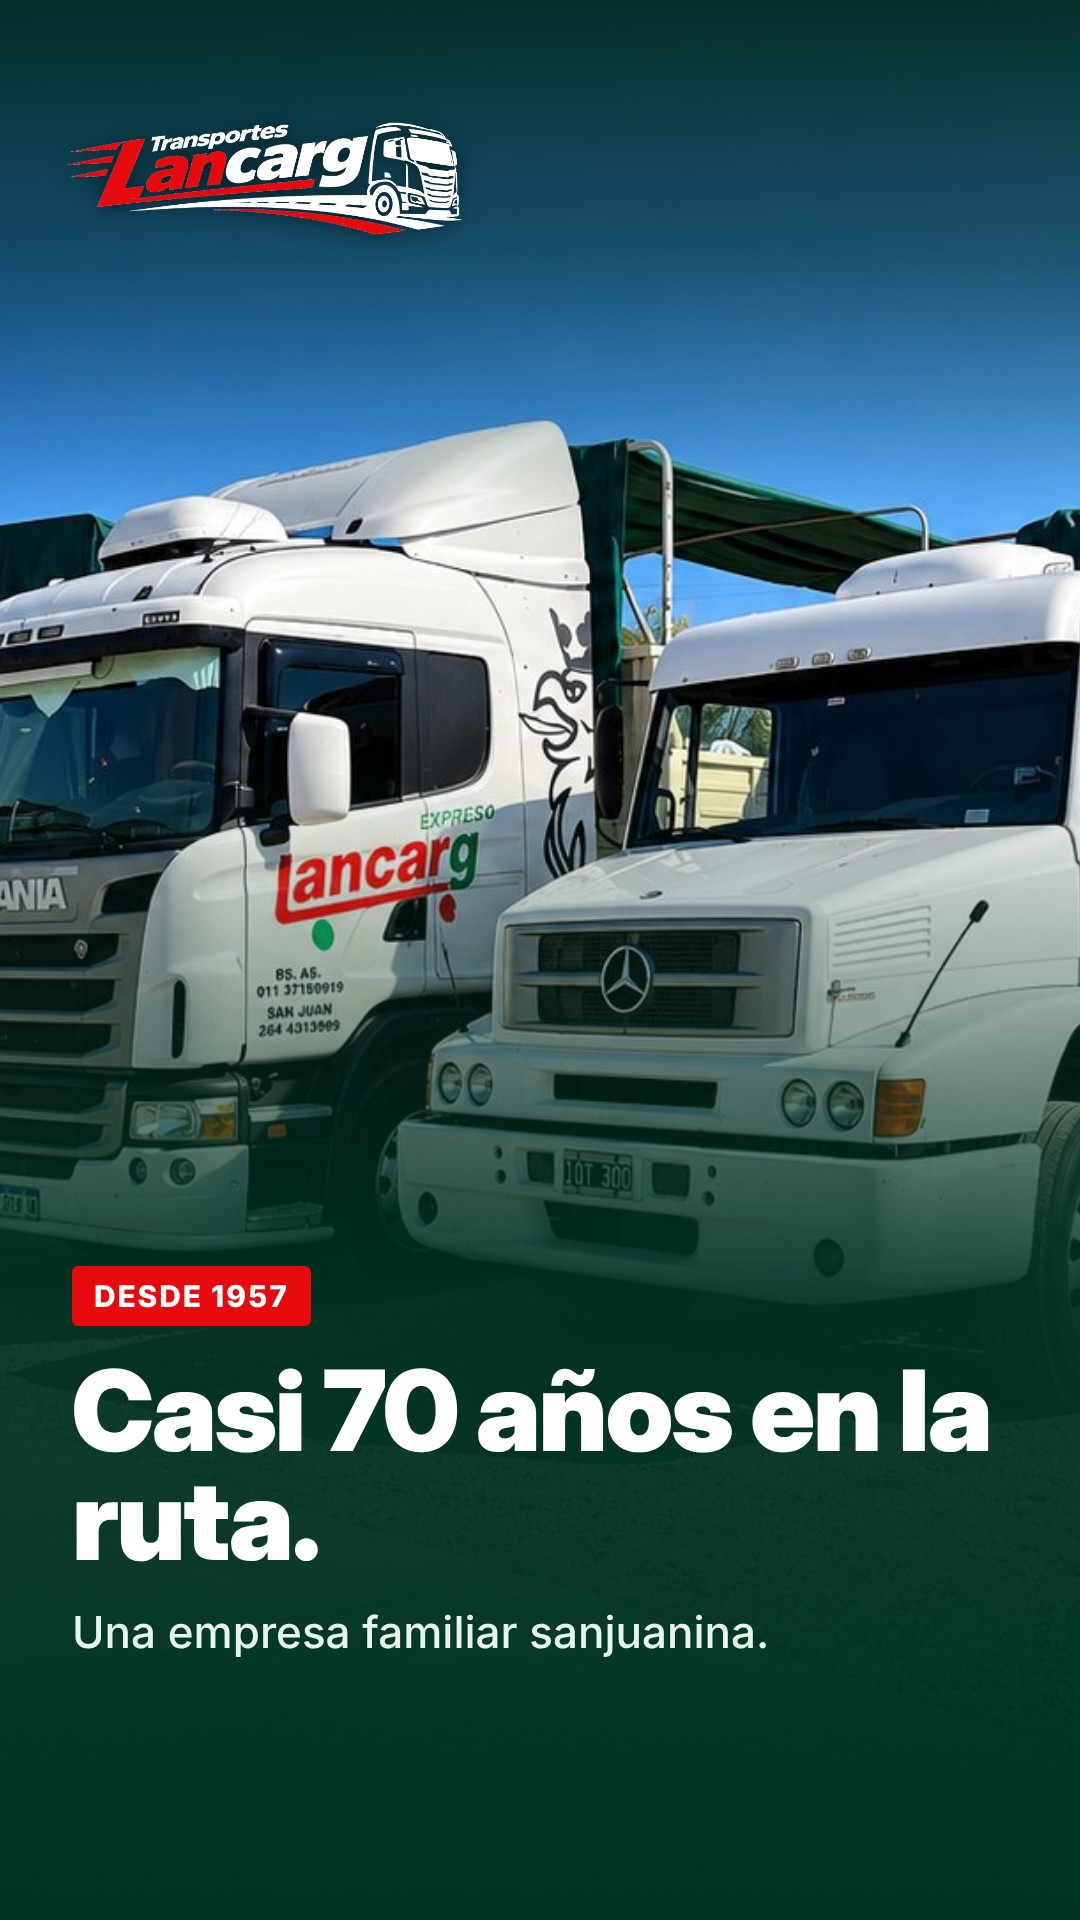
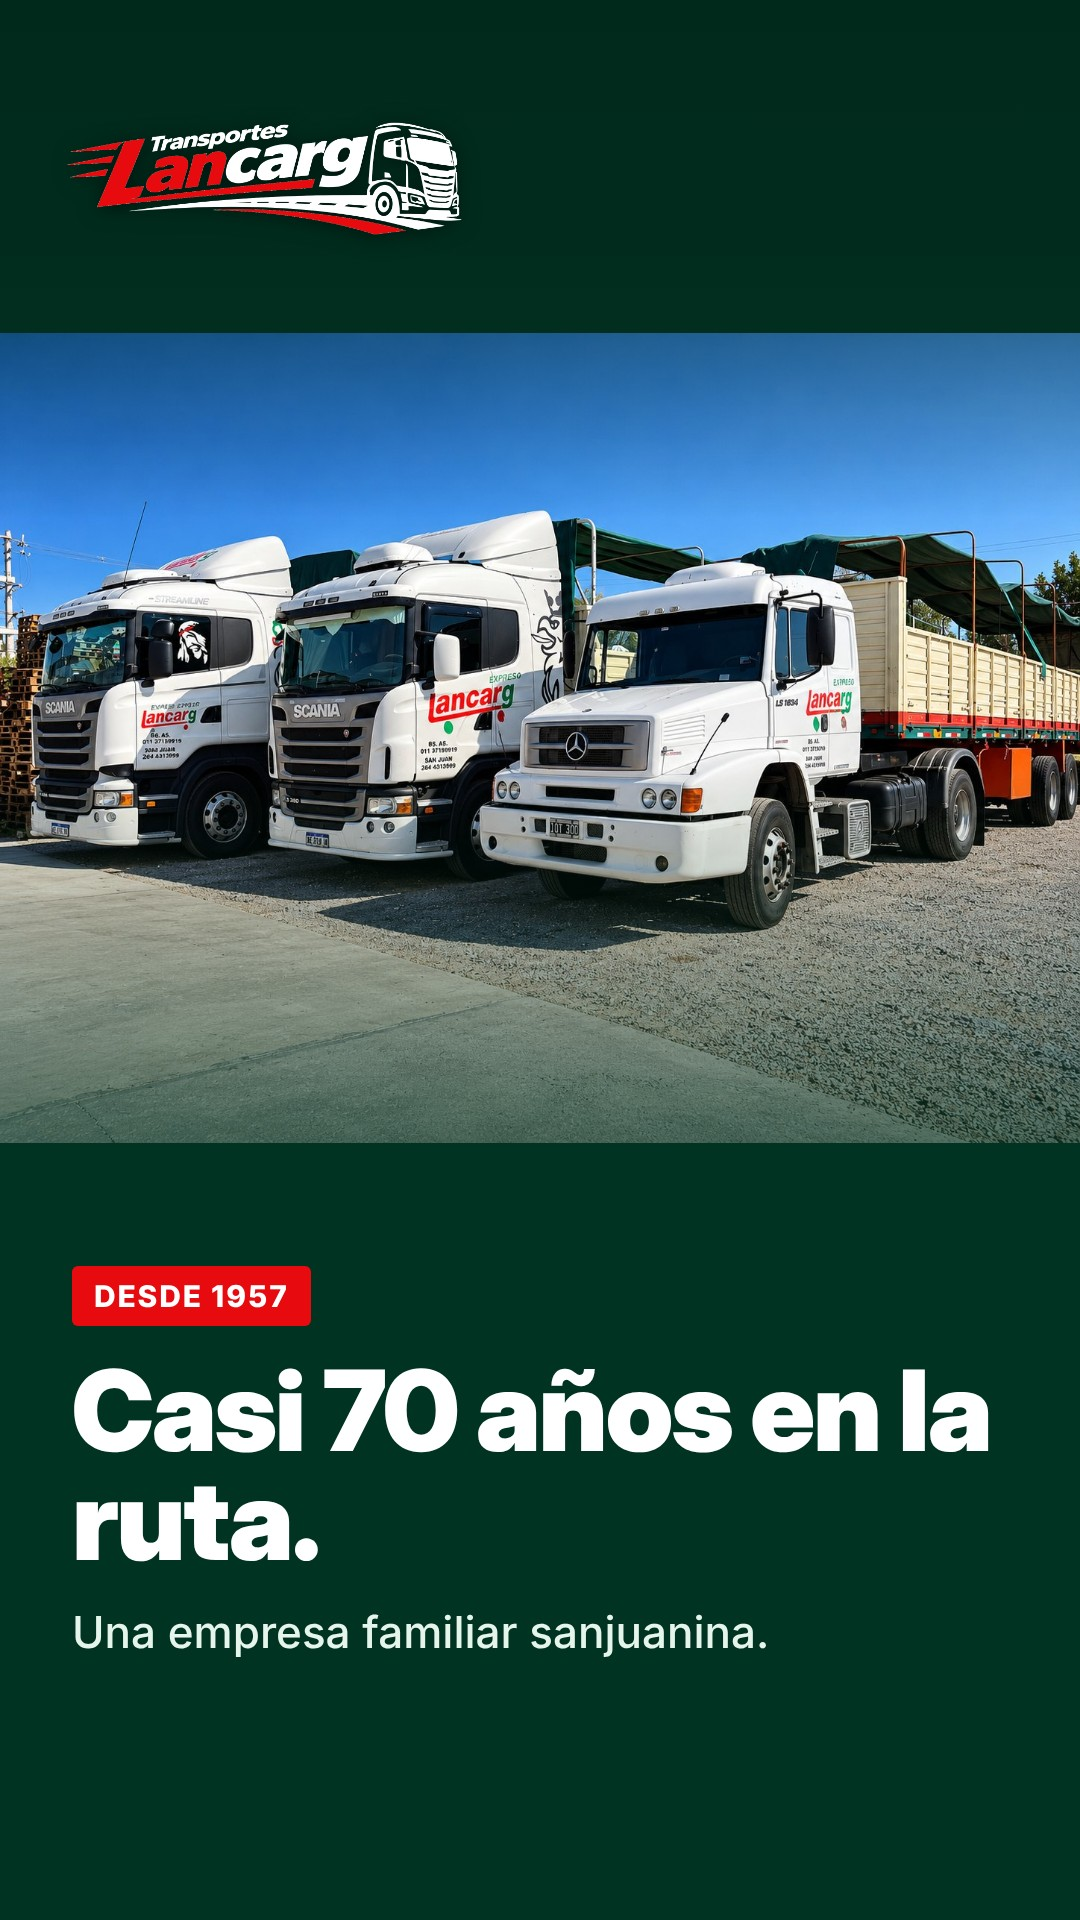
Historias: fotos horizontales completas, sin recortes
Claude-Session: https://claude.ai/code/session_01VCQyoaPqoNphJ14syEH6Au

diff --git a/publicaciones/2026-10-23-historias/diseno.html b/publicaciones/2026-10-23-historias/diseno.html
@@ -34,4 +34,4 @@ h2{font-family:"Inter Display",Inter;font-weight:900;font-size:76px;line-height:
 .card .p{font-size:36px;font-weight:700;margin-top:10px;display:flex;align-items:center;gap:12px}
 .mr{display:flex;gap:30px;align-items:flex-start}
 .mito{font-size:44px;font-weight:800;color:#ffb3b5}
-</style></head><body><div class="slide story"><img class="bg" src="../../fotos/tres-camiones-lancarg-en-el-patio-logistico.jpg" style="object-position:50% 50%"><div class="shade "></div><img class="logo" src="../../marca/logo-lancarg-sobre-verde.png"><div class="txt "><div class="kicker">Desde 1957</div><h1>Casi 70 años en la ruta.</h1><div class="sub">Una empresa familiar sanjuanina.</div></div></div><div class="slide story"><img class="bg" src="../../fotos/planchada-deposito-san-juan.jpg" style="object-position:50% 50%"><div class="shade "></div><img class="logo" src="../../marca/logo-lancarg-sobre-verde.png"><div class="txt "><h2>Sucursal San Juan</h2><div class="card"><div class="t">Ruta 40 545 Norte, Chimbas</div><div class="d">Lunes a viernes de 8 a 16 h · Sábados de 8 a 12:30 h</div><div class="p"><svg width="40" height="40" viewBox="0 0 24 24" fill="#25D366"><path d="M12 2a10 10 0 0 0-8.6 15.1L2 22l5-1.3A10 10 0 1 0 12 2zm5.3 14.1c-.2.6-1.3 1.2-1.8 1.2-.5.1-1 .2-3.3-.7-2.8-1.1-4.5-4-4.7-4.2-.1-.2-1.1-1.5-1.1-2.9s.7-2 1-2.3c.2-.3.5-.3.7-.3h.5c.2 0 .4 0 .6.5l.8 2c.1.2.1.4 0 .5l-.3.5-.4.4c-.1.1-.3.3-.1.6.2.3.8 1.3 1.7 2.1 1.2 1 2.1 1.4 2.4 1.5.3.1.5.1.6-.1l.9-1c.2-.3.4-.2.6-.1l1.9.9c.3.1.5.2.5.3.1.2.1.7-.1 1.4z"/></svg>264 454-3612</div></div></div></div></body></html>
+</style></head><body><div class="slide story"><img class="bg" src="../../fotos/tres-camiones-lancarg-en-el-patio-logistico.jpg" style="object-position:50% 50%;object-fit:contain;object-position:50% 30%"><div class="shade "></div><img class="logo" src="../../marca/logo-lancarg-sobre-verde.png"><div class="txt "><div class="kicker">Desde 1957</div><h1>Casi 70 años en la ruta.</h1><div class="sub">Una empresa familiar sanjuanina.</div></div></div><div class="slide story"><img class="bg" src="../../fotos/planchada-deposito-san-juan.jpg" style="object-position:50% 50%"><div class="shade "></div><img class="logo" src="../../marca/logo-lancarg-sobre-verde.png"><div class="txt "><h2>Sucursal San Juan</h2><div class="card"><div class="t">Ruta 40 545 Norte, Chimbas</div><div class="d">Lunes a viernes de 8 a 16 h · Sábados de 8 a 12:30 h</div><div class="p"><svg width="40" height="40" viewBox="0 0 24 24" fill="#25D366"><path d="M12 2a10 10 0 0 0-8.6 15.1L2 22l5-1.3A10 10 0 1 0 12 2zm5.3 14.1c-.2.6-1.3 1.2-1.8 1.2-.5.1-1 .2-3.3-.7-2.8-1.1-4.5-4-4.7-4.2-.1-.2-1.1-1.5-1.1-2.9s.7-2 1-2.3c.2-.3.5-.3.7-.3h.5c.2 0 .4 0 .6.5l.8 2c.1.2.1.4 0 .5l-.3.5-.4.4c-.1.1-.3.3-.1.6.2.3.8 1.3 1.7 2.1 1.2 1 2.1 1.4 2.4 1.5.3.1.5.1.6-.1l.9-1c.2-.3.4-.2.6-.1l1.9.9c.3.1.5.2.5.3.1.2.1.7-.1 1.4z"/></svg>264 454-3612</div></div></div></div></body></html>

diff --git a/publicaciones/2026-10-25-historias/diseno.html b/publicaciones/2026-10-25-historias/diseno.html
@@ -34,4 +34,4 @@ h2{font-family:"Inter Display",Inter;font-weight:900;font-size:76px;line-height:
 .card .p{font-size:36px;font-weight:700;margin-top:10px;display:flex;align-items:center;gap:12px}
 .mr{display:flex;gap:30px;align-items:flex-start}
 .mito{font-size:44px;font-weight:800;color:#ffb3b5}
-</style></head><body><div class="slide story"><img class="bg" src="../../fotos/camion-scania-lancarg-bajo-cielo-azul.jpg" style="object-position:50% 40%"><div class="shade "></div><img class="logo" src="../../marca/logo-lancarg-sobre-verde.png"><div class="txt "><h1>Feliz domingo.</h1><div class="sub">Mañana arrancamos otra semana de envíos.</div></div></div><div class="slide story"><img class="bg" src="../../fotos/interior-deposito-bsas-con-mucha-mercaderia-variada.jpg" style="object-position:50% 50%"><div class="shade "></div><img class="logo" src="../../marca/logo-lancarg-sobre-verde.png"><div class="txt "><div class="kicker">Comercios</div><h1>Reponé stock <em>sin viajar</em>.</h1><div class="sub">Comprás en Buenos Aires, lo recibís en tu local.</div></div></div></body></html>
+</style></head><body><div class="slide story"><img class="bg" src="../../fotos/camion-scania-lancarg-bajo-cielo-azul.jpg" style="object-position:50% 40%"><div class="shade "></div><img class="logo" src="../../marca/logo-lancarg-sobre-verde.png"><div class="txt "><h1>Feliz domingo.</h1><div class="sub">Mañana arrancamos otra semana de envíos.</div></div></div><div class="slide story"><img class="bg" src="../../fotos/interior-deposito-bsas-con-mucha-mercaderia-variada.jpg" style="object-position:50% 50%;object-fit:contain;object-position:50% 30%"><div class="shade "></div><img class="logo" src="../../marca/logo-lancarg-sobre-verde.png"><div class="txt "><div class="kicker">Comercios</div><h1>Reponé stock <em>sin viajar</em>.</h1><div class="sub">Comprás en Buenos Aires, lo recibís en tu local.</div></div></div></body></html>

diff --git a/plantillas/generar_semana_2026-10-20.py b/plantillas/generar_semana_2026-10-20.py
@@ -48,8 +48,15 @@ BAR = '<div class="bar"><span><b>Camiones</b> todos los días</span><span>·</sp
 WAPILL = '<div class="pill">' + WA.format(s=48) + '264 454-3612</div>'
 
 
-def photo(name, pos="50% 50%"):
-    fit = ";object-fit:contain;object-position:50% 30%" if name.startswith(("caja-de-carton", "muestrario", "hombre-entregando")) else ""
+def is_landscape(name):
+    from PIL import Image
+    w, h = Image.open(os.path.join(ROOT, "fotos", name + ".jpg")).size
+    return w > h
+
+
+def photo(name, pos="50% 50%", story=False):
+    contain = name.startswith(("caja-de-carton", "muestrario", "hombre-entregando")) or (story and is_landscape(name))
+    fit = ";object-fit:contain;object-position:50% 30%" if contain else ""
     return f'<img class="bg" src="{F}{name}.jpg" style="object-position:{pos}{fit}">'
 
 
@@ -58,7 +65,7 @@ def page(slides):
 
 
 def story(img, body, pos="50% 50%", shade="", logo=True, top=False):
-    return (f'<div class="slide story">{photo(img,pos)}<div class="shade {shade}"></div>'
+    return (f'<div class="slide story">{photo(img,pos,story=True)}<div class="shade {shade}"></div>'
             + (f'<img class="logo" src="{LOGO}">' if logo else '')
             + f'<div class="txt {"top" if top else ""}">{body}</div></div>')
 
